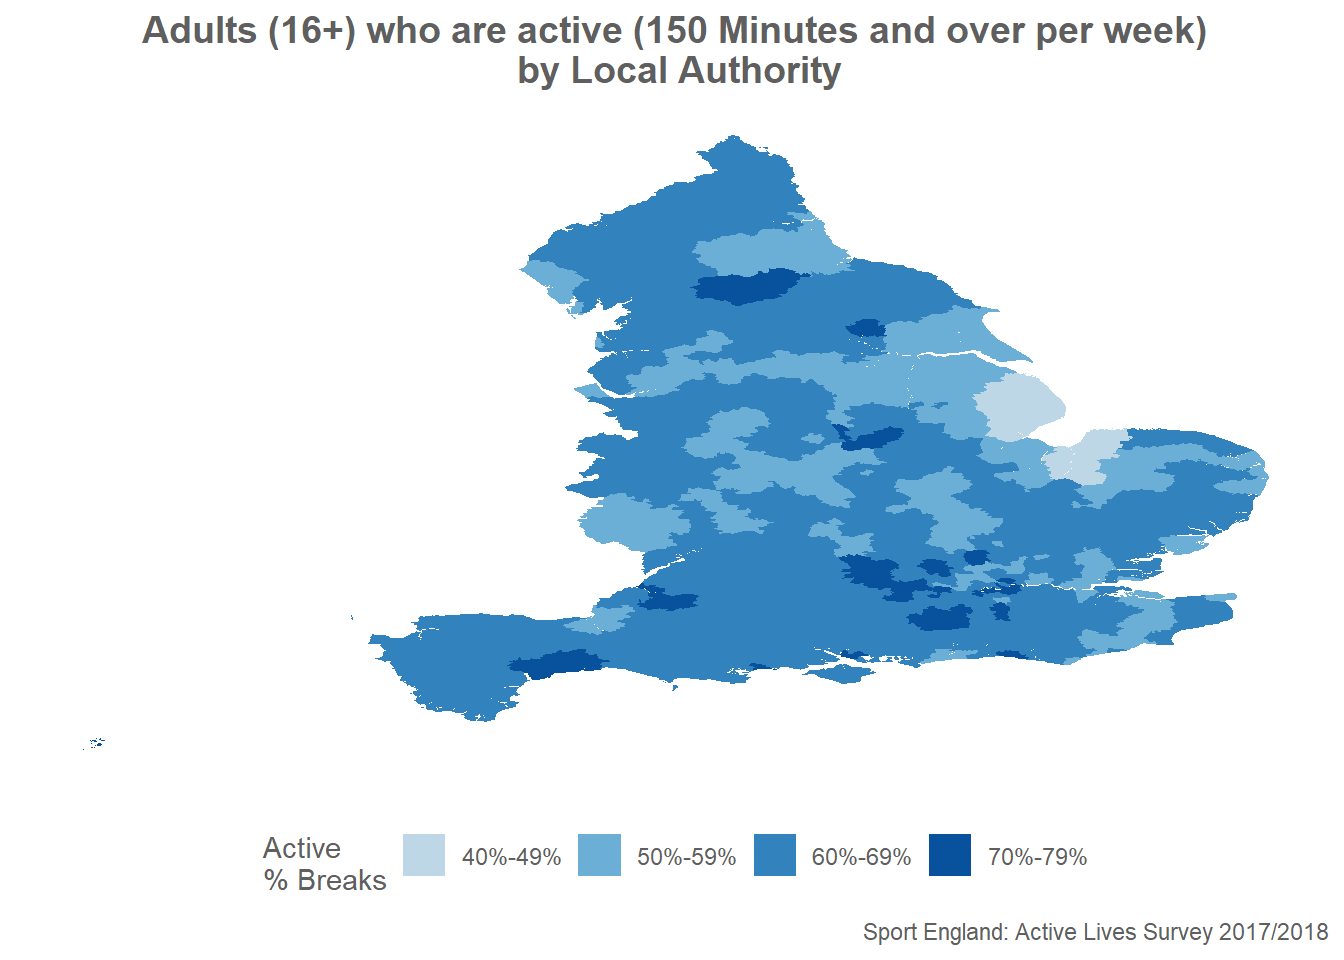
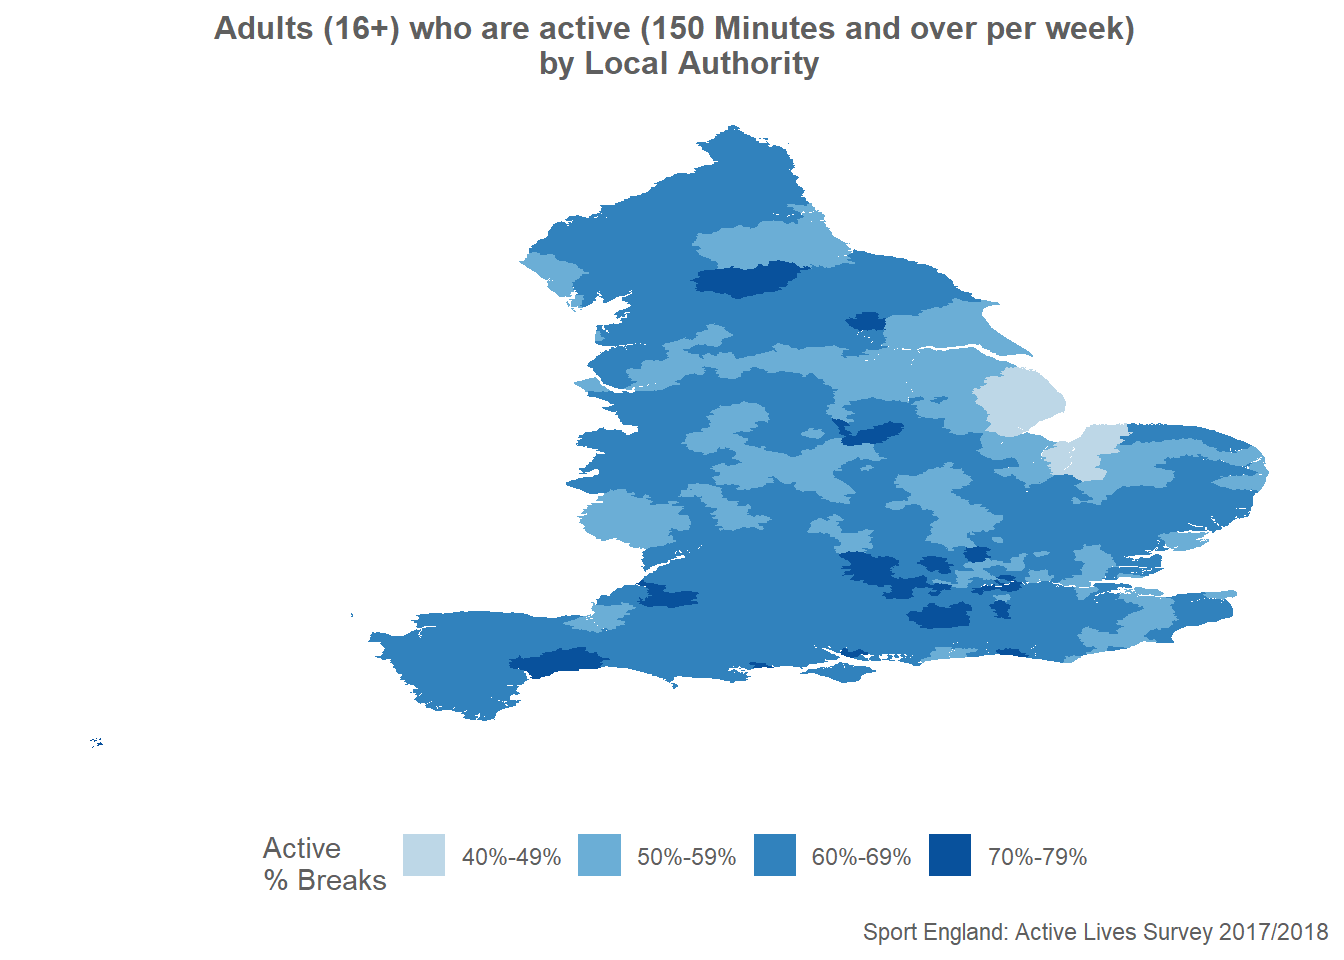
Update

diff --git a/map_tutorial.html b/map_tutorial.html
@@ -350,7 +350,7 @@ map.df     &lt;- join(map.df,map@data, by=&quot;id&quot;)  #join
 
 map.df &lt;- map.df[grep(&quot;E&quot;, map.df$lad17cd),] # England only
 map.df &lt;- map.df[, !duplicated(colnames(map.df))] # remove dupe cols</code></pre>
-We now have a dataframe that we can use with the (magnificent) ggplot2. Full disclosure, I heart ggplot2. Here is an excellent cheatsheet which I have found useful on many occasions: <a href="https://github.com/rstudio/cheatsheets/blob/master/data-visualization-2.1.pdf"><img src="images/Screenshot.png" alt="Alt Text" /></a> </br> </br>
+We now have a dataframe that we can use with the (magnificent) ggplot2. Full disclosure, I heart ggplot2. Here is an excellent cheatsheet which I have found useful on many occasions: <a href="https://github.com/rstudio/cheatsheets/blob/master/data-visualization-2.1.pdf"><img src="Screenshot.png" alt="Alt Text" /></a> </br> </br>
 <div style="text-align:left">
 <span style="color:black; font-family:Corbel; font-size:1.5em;">Step 4: ggplot!</span>
 </div>
@@ -362,7 +362,7 @@ ggplot() +
   theme_minimal() + 
   theme(axis.title.x = element_blank(),axis.title.y = element_blank(), 
         text = element_text(family = &quot;Corbel&quot;, color = &quot;#5F5F5F&quot;), 
-        plot.title=element_text(size=14,family = &quot;Corbel&quot;, face=&quot;bold&quot;, hjust = 0.5),
+        plot.title=element_text(size=12,family = &quot;Corbel&quot;, face=&quot;bold&quot;, hjust = 0.5),
         panel.grid = element_blank(), # remove all axes and gridlines
         axis.text = element_blank(),
         axis.ticks.x = element_blank(),
